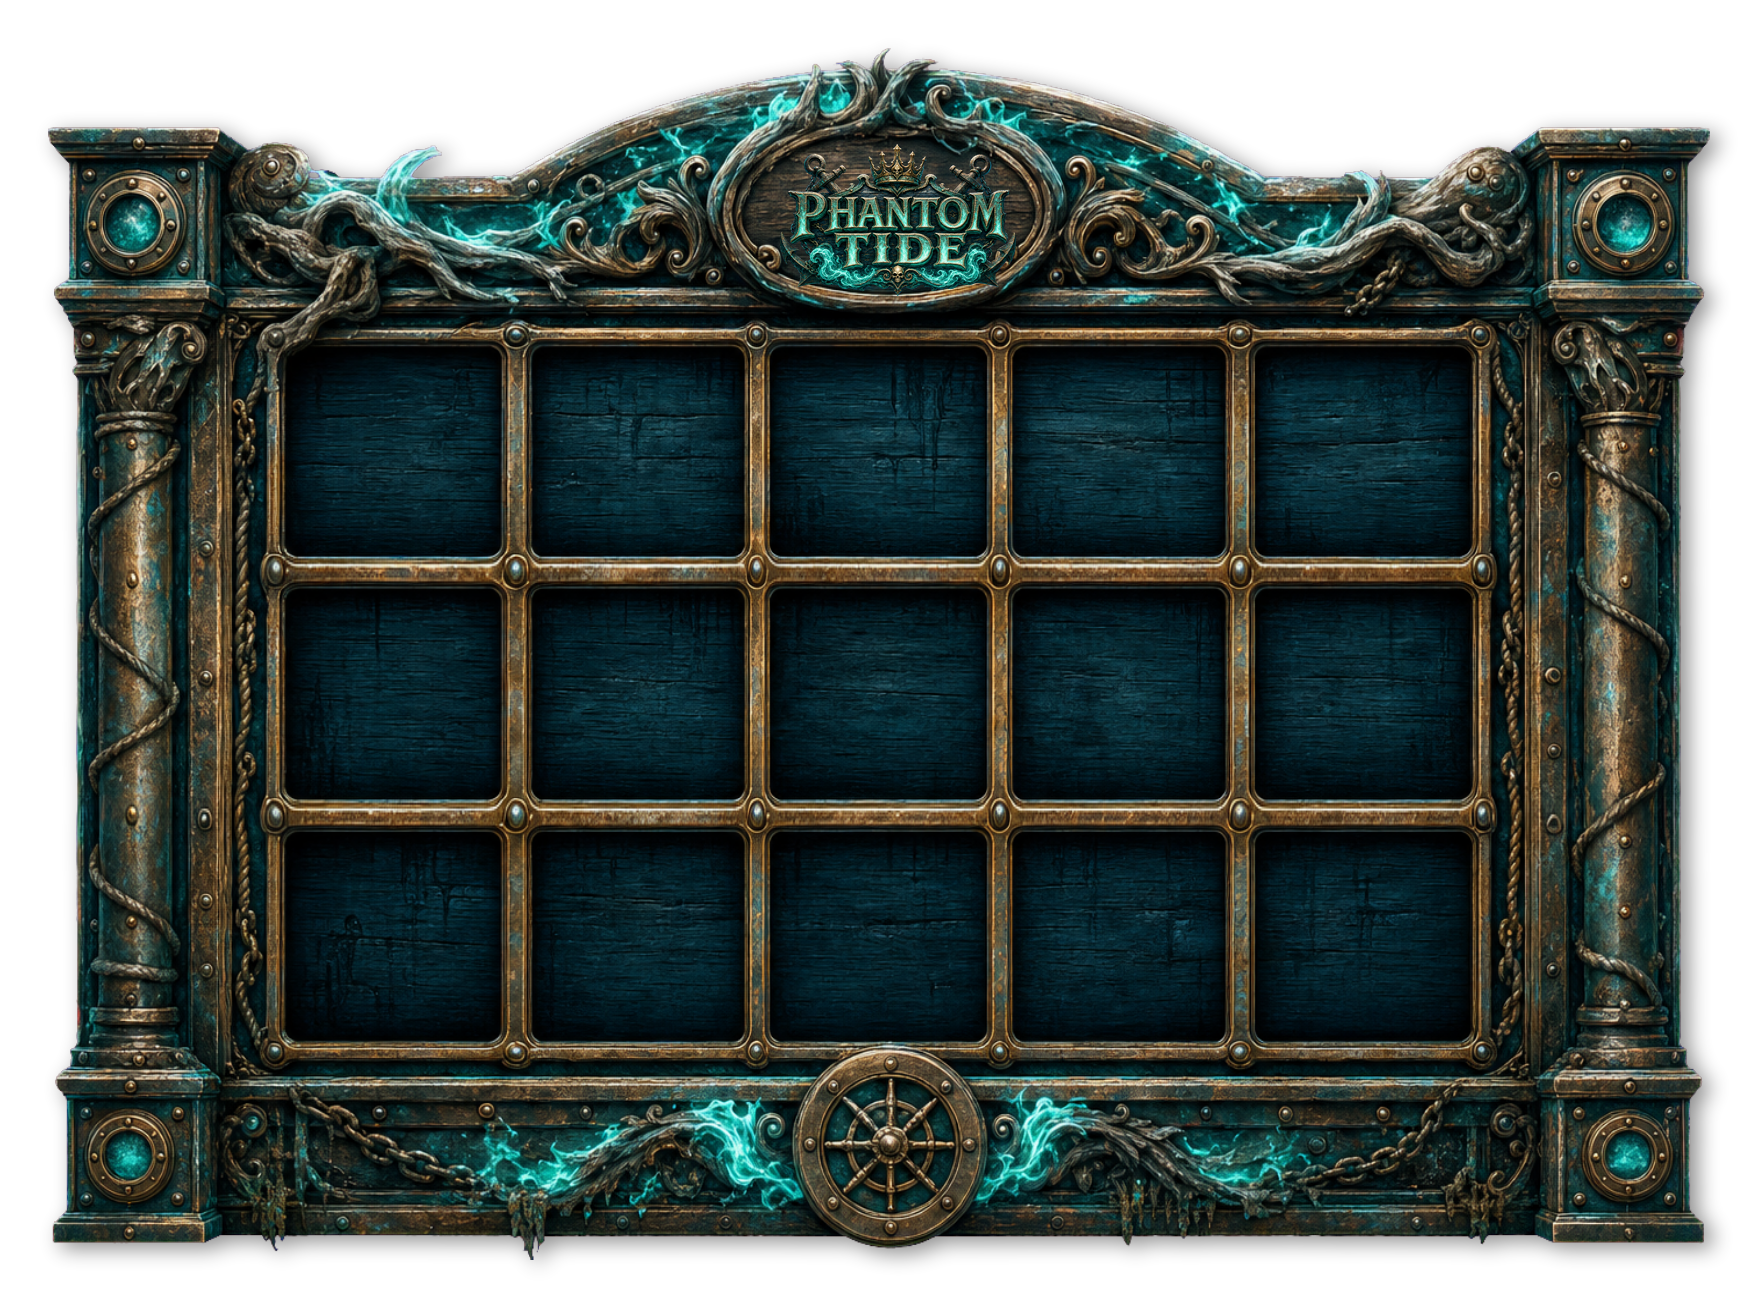
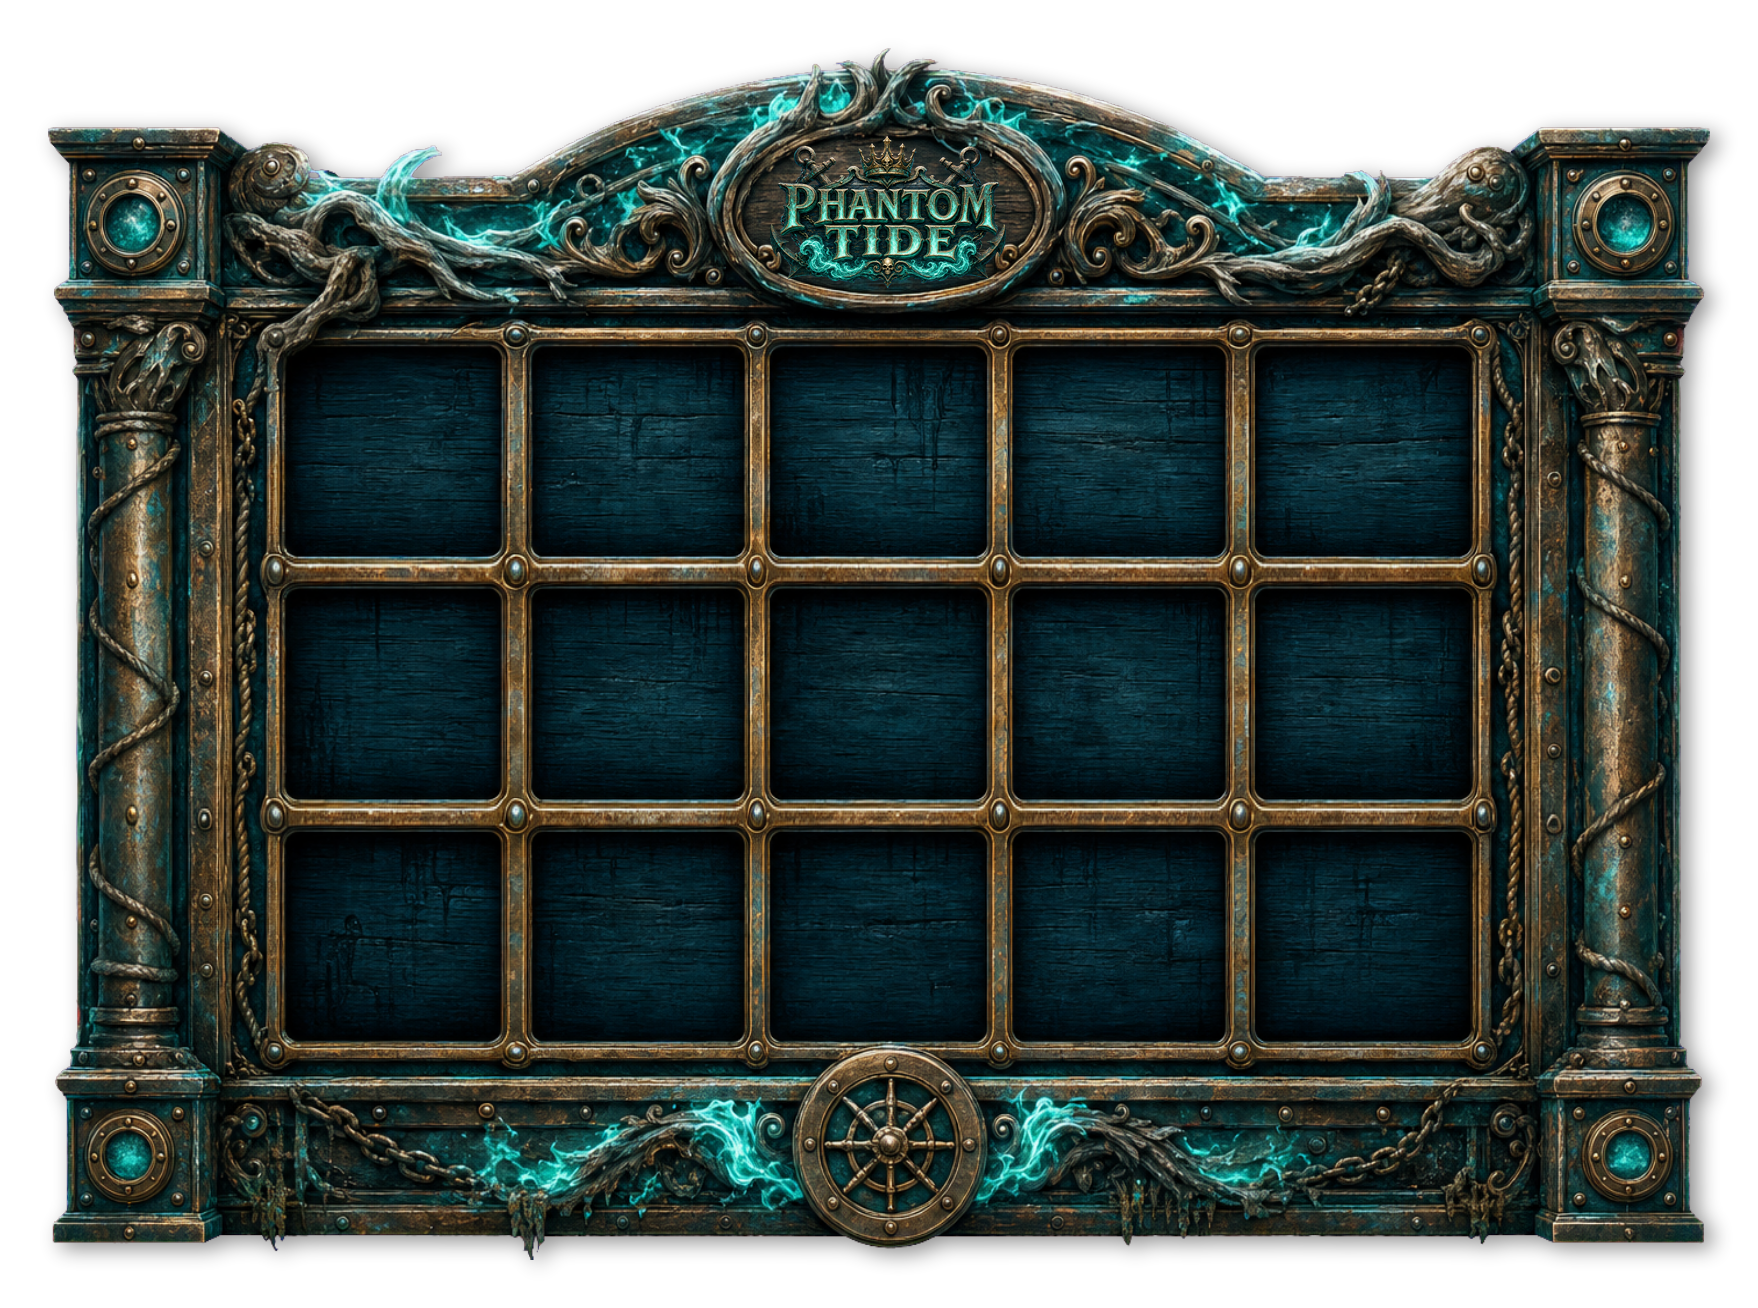
Phantom Tide: smaller WIN display under the message line

Changed region(s): [[0.43, 0.0917, 0.5836, 0.2446]]

diff --git a/src/view/ragui/ragui.js b/src/view/ragui/ragui.js
@@ -154,7 +154,7 @@
         '\n#bhp-ui .close::after{display:none!important}' +
         '\n#bhp-ui .close::before{transform:none!important}' +
         // WIN capsule: smaller and under the game messages line (tom 2026-10-04)
-        '\n#bhp-ui .winmid{--ws:.66;bottom:0;transform-origin:50% 100%}';
+        '\n#bhp-ui .winmid{--ws:.5;bottom:0;transform-origin:50% 100%}';
     },
 
     buildPopovers: function () {
